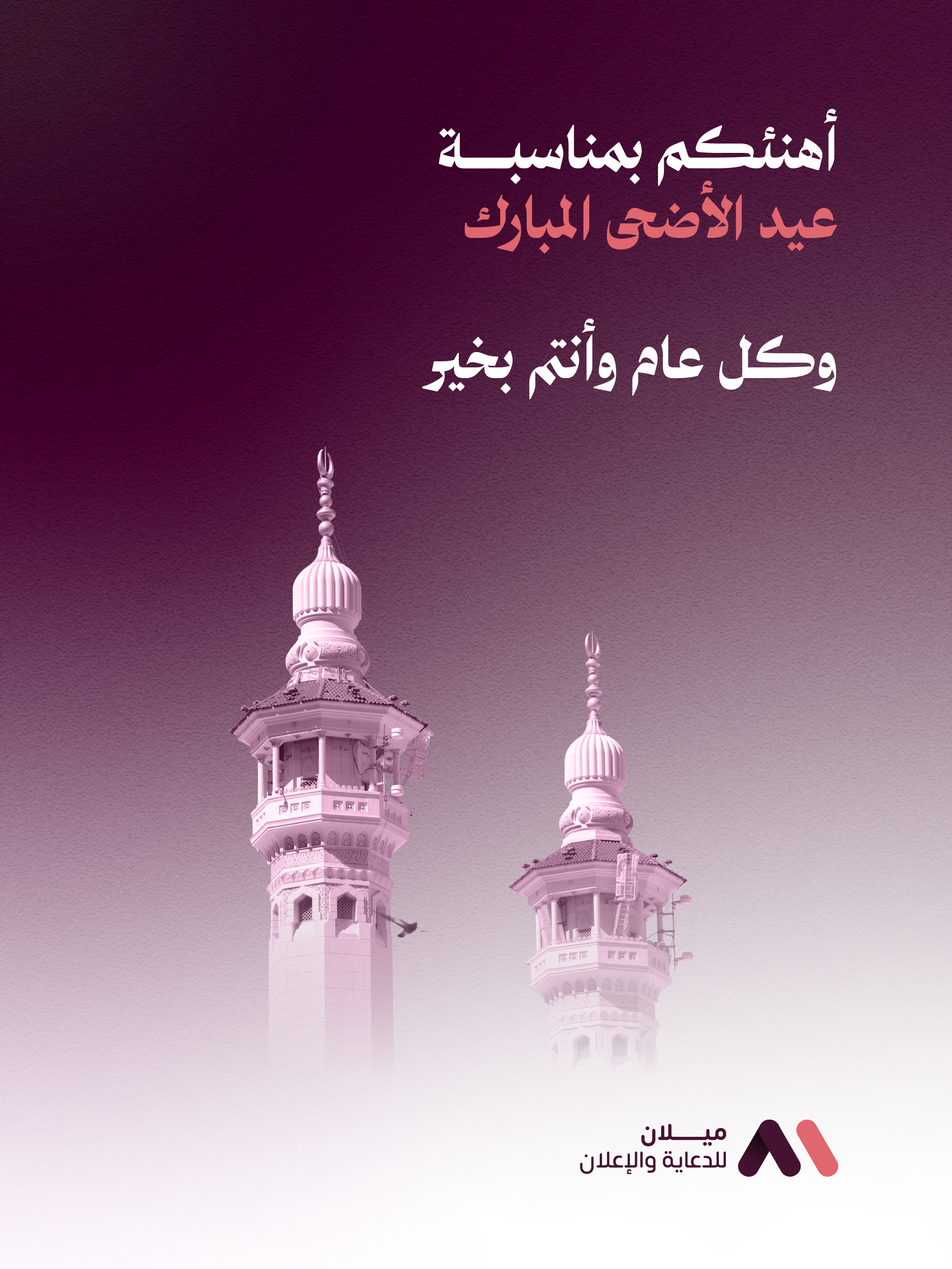
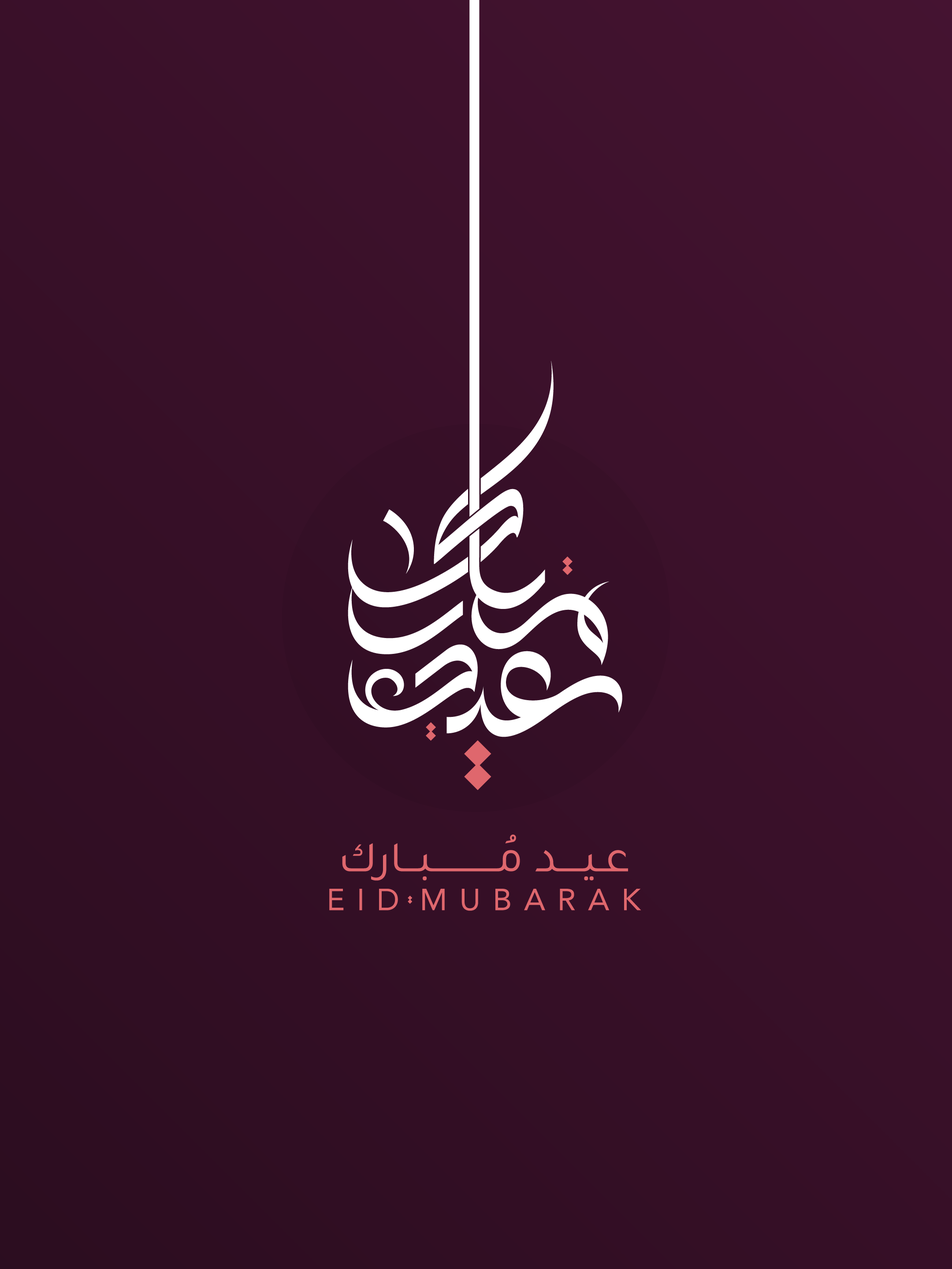
Update: Add 6 real templates for Milan

diff --git a/script.js b/script.js
@@ -77,6 +77,22 @@ document.addEventListener("DOMContentLoaded", () => {
             yPercent: 50,
             color: "#451331",
             fontWeight: "bold"
+        },
+        template5: {
+            fontFamily: "IBM Plex Sans Arabic",
+            fontSize: 30,
+            xPercent: 50,
+            yPercent: 50,
+            color: "#451331",
+            fontWeight: "bold"
+        },
+        template6: {
+            fontFamily: "IBM Plex Sans Arabic",
+            fontSize: 30,
+            xPercent: 50,
+            yPercent: 50,
+            color: "#451331",
+            fontWeight: "bold"
         }
     };
 
@@ -97,17 +113,23 @@ document.addEventListener("DOMContentLoaded", () => {
         template1: new Image(),
         template2: new Image(),
         template3: new Image(),
-        template4: new Image()
+        template4: new Image(),
+        template5: new Image(),
+        template6: new Image()
     };
     images.template1.src = "template1.png?v=1.0.33";
     images.template2.src = "template2.png?v=1.0.33";
     images.template3.src = "template3.png?v=1.0.33";
     images.template4.src = "template4.png?v=1.0.33";
+    images.template5.src = "template5.png?v=1.0.33";
+    images.template6.src = "template6.png?v=1.0.33";
 
     images.template1.onload = () => { if (currentTemplate === "template1") drawCard(); };
     images.template2.onload = () => { if (currentTemplate === "template2") drawCard(); };
     images.template3.onload = () => { if (currentTemplate === "template3") drawCard(); };
     images.template4.onload = () => { if (currentTemplate === "template4") drawCard(); };
+    images.template5.onload = () => { if (currentTemplate === "template5") drawCard(); };
+    images.template6.onload = () => { if (currentTemplate === "template6") drawCard(); };
 
     function applyTemplateSettings(templateId) {
         const settings = templateSettings[templateId];

diff --git a/index.html b/index.html
@@ -81,6 +81,20 @@
                                 </div>
                                 <span>النموذج الرابع</span>
                             </div>
+                            <div class="template-option" data-template="template5">
+                                <div class="option-image-wrapper">
+                                    <img src="template5.png?v=1.0.33" alt="النموذج الخامس" onerror="this.src='https://placehold.co/300x300/ffffff/000000?text=Template+5'">
+                                    <div class="selected-badge"><i data-lucide="check"></i></div>
+                                </div>
+                                <span>النموذج الخامس</span>
+                            </div>
+                            <div class="template-option" data-template="template6">
+                                <div class="option-image-wrapper">
+                                    <img src="template6.png?v=1.0.33" alt="النموذج السادس" onerror="this.src='https://placehold.co/300x300/ffffff/000000?text=Template+6'">
+                                    <div class="selected-badge"><i data-lucide="check"></i></div>
+                                </div>
+                                <span>النموذج السادس</span>
+                            </div>
                         </div>
                     </div>
 
